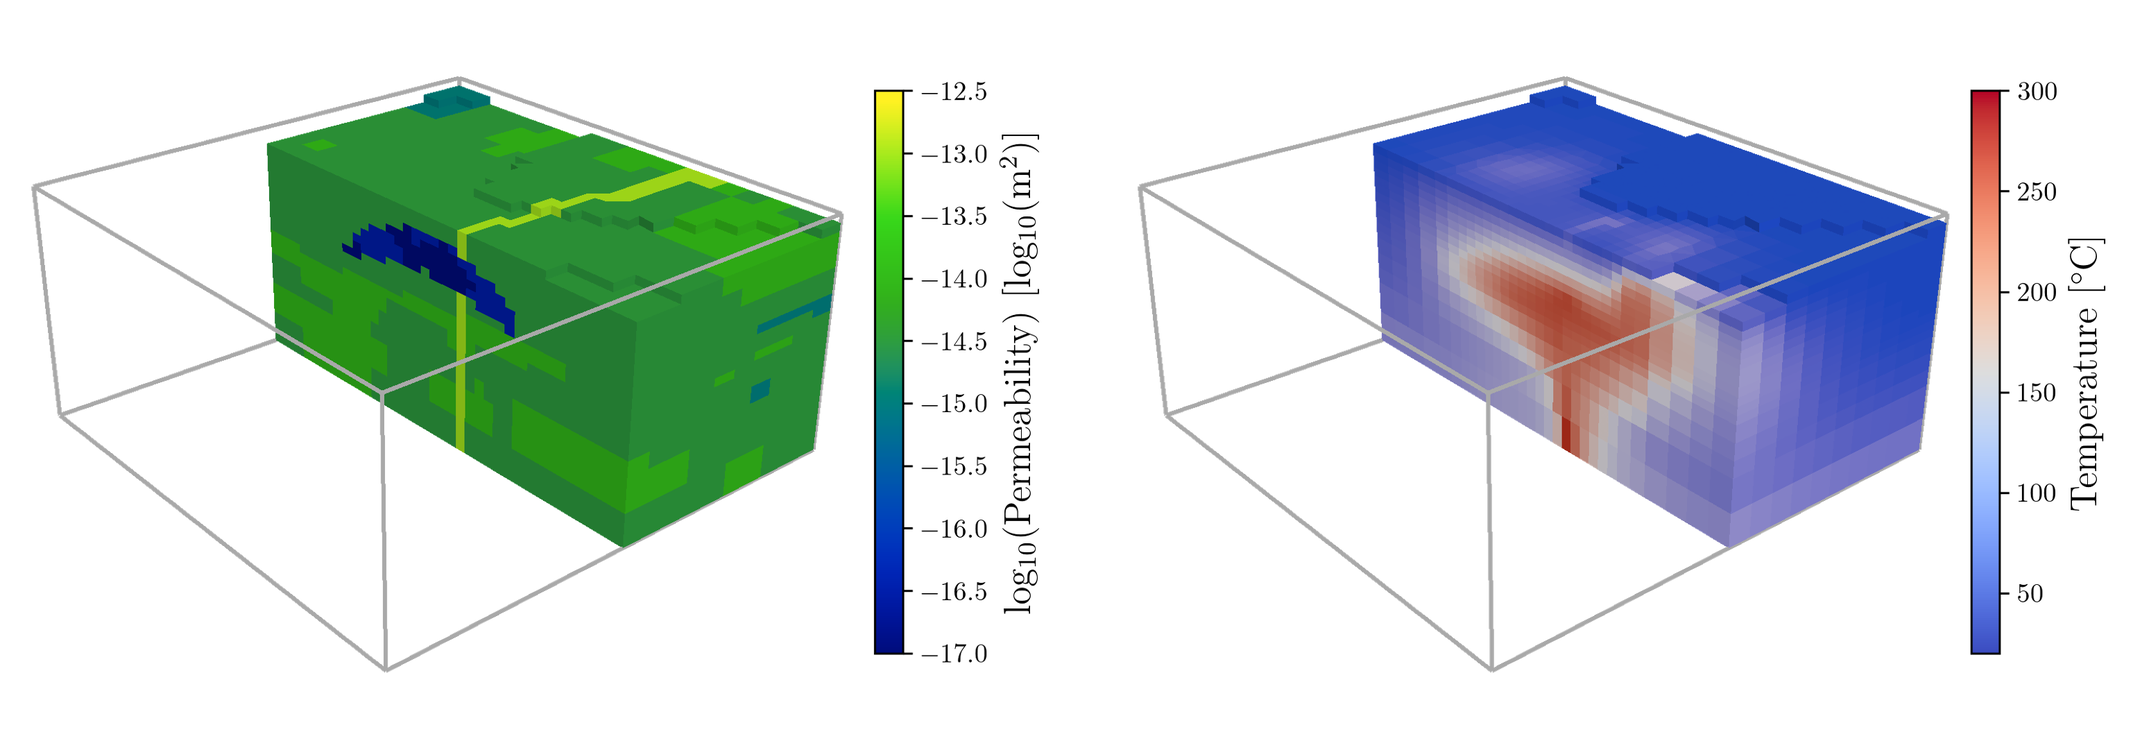
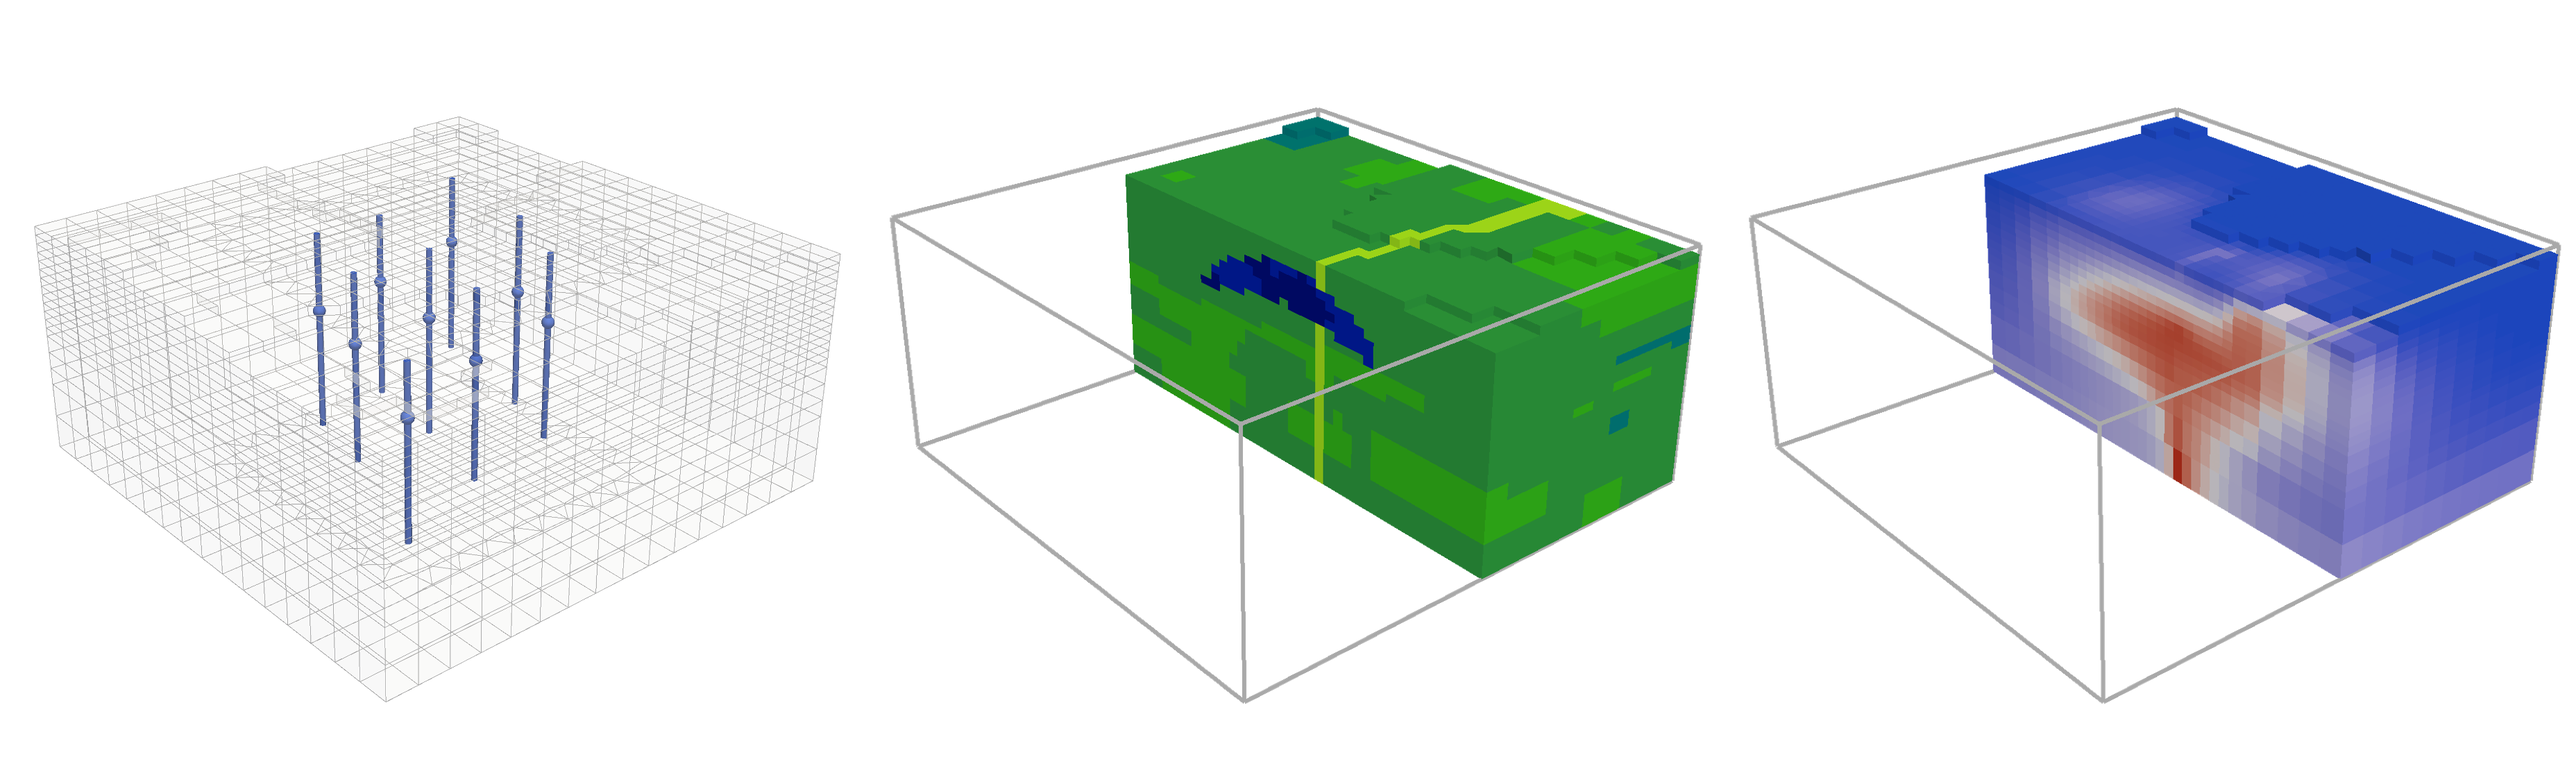
Update image

diff --git a/README.md b/README.md
@@ -1,12 +1,14 @@
 # Geothermal Ensemble Methods
 
-![image](fault_model.png)
+![Fault Model](fault_model.png)
 
 This repository contains code for running ensemble Kalman inversion (EKI; [[1](#1), [2](#2)]) and ensemble randomised maximum likelihood (EnRML; [[3](#3)]) for approximate Bayesian inference of the subsurface permeability structure and hot mass upflow of two simple geothermal reservoir models.
 Both EKI and EnRML are derivative-free algorithms that iteratively update a set of interacting particles to produce an approximation of the posterior. 
 They differ in terms of the dynamic under which the particles evolve.
 
-This repository contains a two-dimensional vertical slice model and a three-dimensional model with a vertical fault running through the centre of the reservoir. Both models are run using the [Waiwera](https://waiwera.github.io/) geothermal simulator.
+This repository contains a two-dimensional vertical slice model and a three-dimensional model with a vertical fault running through the centre of the reservoir. 
+The image at the top of this file shows the model mesh and well locations *(left)*, permeability structure *(centre)* and natural state convective plume *(right)* of the three-dimensional model.
+Both models are run using the [Waiwera](https://waiwera.github.io/) geothermal simulator.
 
 ## Getting Started
 
